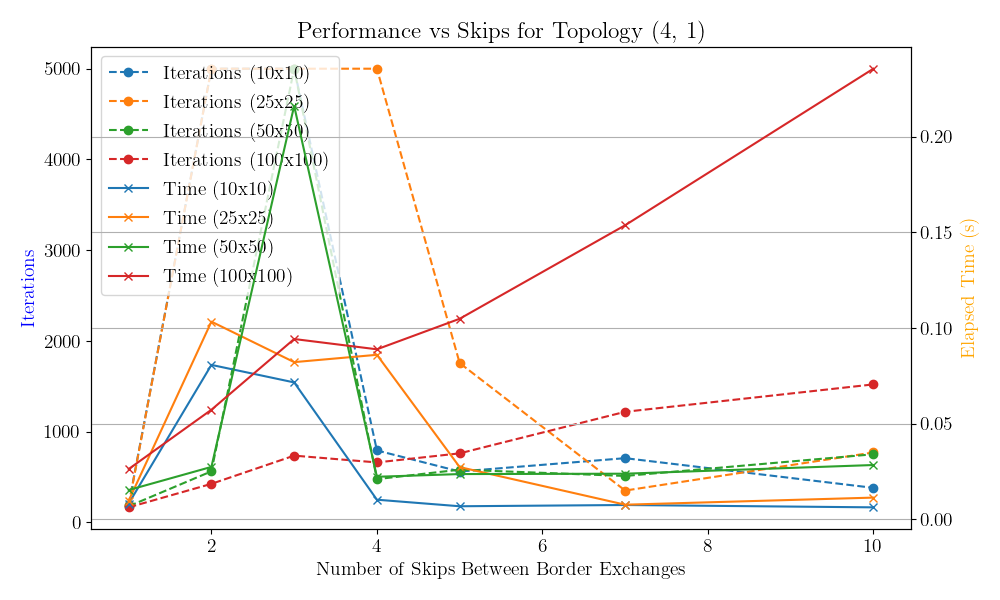
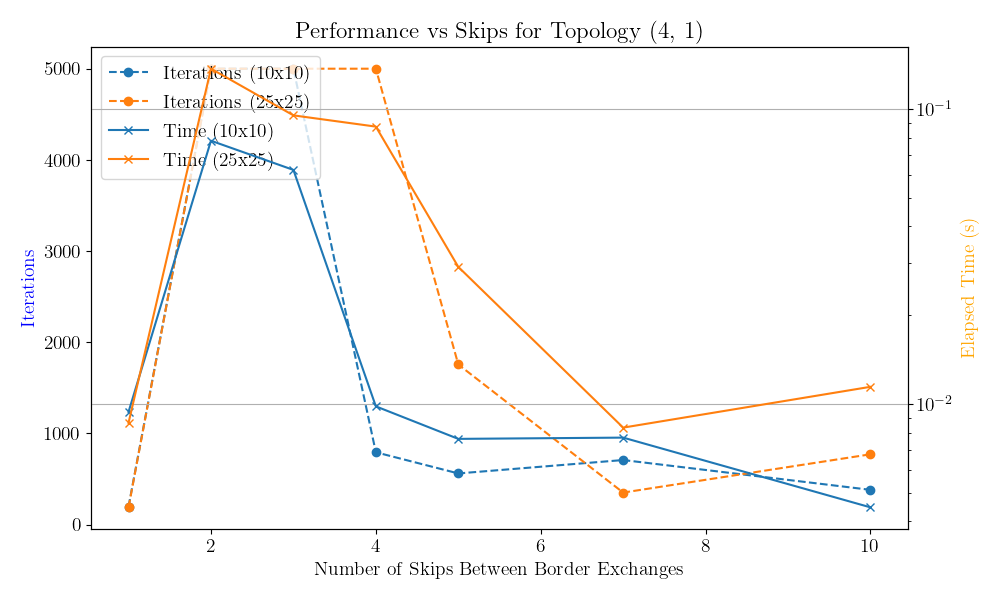
small grids only

diff --git a/02_lab1/analysis/red_border_com_128.py b/02_lab1/analysis/red_border_com_128.py
@@ -90,6 +90,7 @@ def visualise(res, tops, grids, skips):
         ax1.set_xlabel("Number of Skips Between Border Exchanges")
         ax1.set_ylabel("Iterations", color="blue")
         ax2.set_ylabel("Elapsed Time (s)", color="orange")
+        ax2.set_yscale("log")
 
         # Add a title and a combined legend
         plt.title(f"Performance vs Skips for Topology {top}")
@@ -97,6 +98,7 @@ def visualise(res, tops, grids, skips):
         lines_2, labels_2 = ax2.get_legend_handles_labels()
         ax1.legend(lines_1 + lines_2, labels_1 + labels_2, loc="upper left")
         plt.grid()
+        
 
         # Save the figure for the current topology
         plt.tight_layout()
@@ -110,7 +112,7 @@ if __name__ == "__main__":
     path = os.path.join(path, src)
     os.chdir(path)
     tops = [(4, 1)]
-    grids = [(10,10),(25,25),(50,50),(100,100)]#, (200,200), (800,800)]#, (200,200), (800, 800)]#, (3200, 3200)]
+    grids = [(10,10),(25,25)]#,(50,50),(100,100)]#, (200,200), (800,800)]#, (200,200), (800, 800)]#, (3200, 3200)]
     skips = [1,2,3,4,5,7,10]#,15,25,50,100]
     res = border_com(tops, grids, skips)
     visualise(res, tops, grids, skips)
